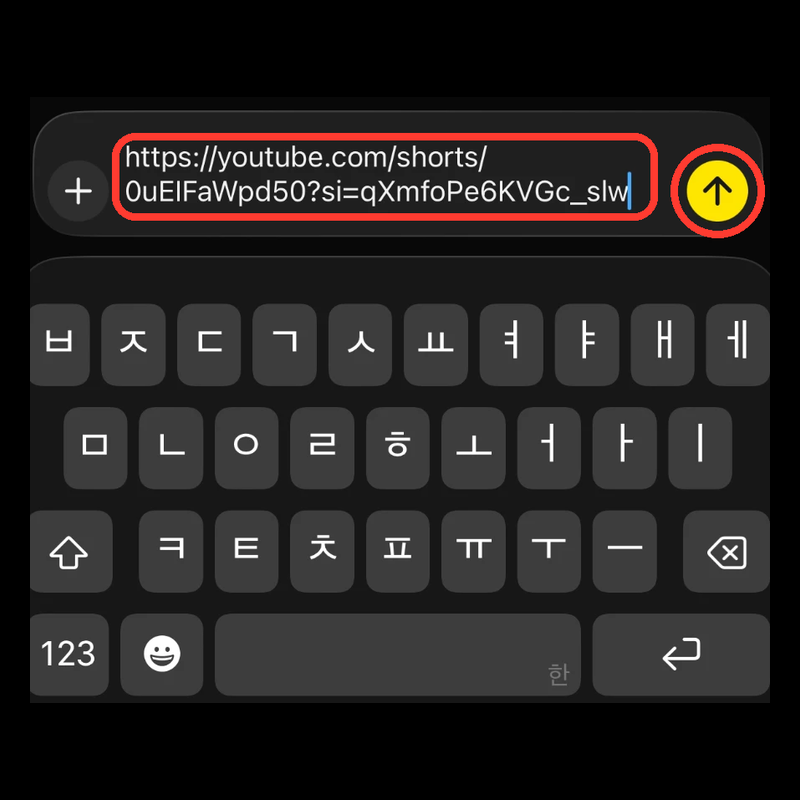
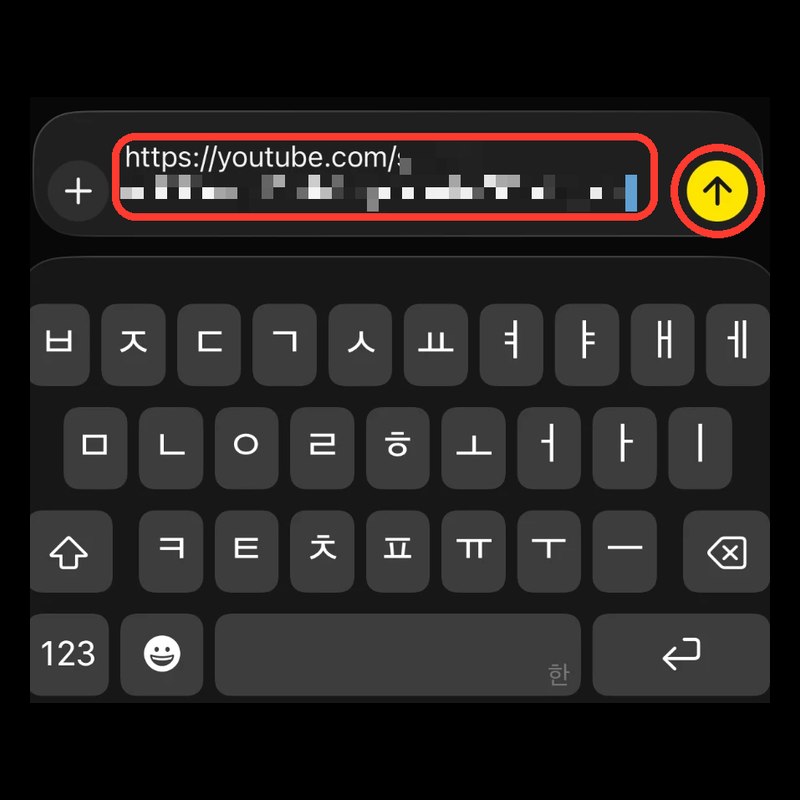
fix: 사용법 3번 사진의 주소에서 영상 번호 부분을 모자이크한다
youtube.com까지만 읽히게 두고 나머지는 가린다. 카카오가 이전 사진을 기억하지 않게 사진 버전을 v2로 올린다.

Changed region(s): [[0.1562, 0.1875, 0.8125, 0.2812]]

diff --git a/scripts/make_guide_images.py b/scripts/make_guide_images.py
@@ -36,6 +36,13 @@ def blur(img: Image.Image, box: tuple[int, int, int, int]) -> None:
     img.paste(region, box[:2])
 
 
+def mosaic(img: Image.Image, box: tuple[int, int, int, int], cell: int = 14) -> None:
+    """모자이크. 글자 모양은 남기되 읽을 수 없게 한다."""
+    region = img.crop(box)
+    small = region.resize((max(1, region.width // cell), max(1, region.height // cell)), Image.NEAREST)
+    img.paste(small.resize(region.size, Image.NEAREST), box[:2])
+
+
 def ring(draw: ImageDraw.ImageDraw, box, *, rounded: bool = False) -> None:
     if rounded:
         draw.rounded_rectangle(box, radius=28, outline=RED, width=9)
@@ -67,8 +74,10 @@ def make(src: Path) -> None:
     ring(draw, (34, 1750, 350, 1878), rounded=True)
     fit(img.crop((20, 1320, 900, 1925))).save(OUT / "2_copy.png", optimize=True)
 
-    # 3. 여기에 붙여 넣고 보내기
+    # 3. 여기에 붙여 넣고 보내기. 주소는 youtube.com만 읽히게 두고 영상 번호 부분은 모자이크한다
     img = chat.copy()
+    mosaic(img, (462, 1158, 760, 1198))
+    mosaic(img, (128, 1198, 760, 1242))
     draw = ImageDraw.Draw(img)
     ring(draw, (118, 1148, 770, 1252), rounded=True)
     ring(draw, (786, 1161, 898, 1273))

diff --git a/tests/unit/test_guide.py b/tests/unit/test_guide.py
@@ -205,7 +205,7 @@ def test_공개_주소가_있으면_사용법을_사진_카드로_보낸다():
     carousel = payload["template"]["outputs"][0]["carousel"]
     assert carousel["type"] == "basicCard"
     for item in carousel["items"]:
-        assert item["thumbnail"]["imageUrl"].startswith("https://example.org/static/guide/v1/")
+        assert item["thumbnail"]["imageUrl"].startswith("https://example.org/static/guide/v2/")
         assert len(item["description"]) <= 230
 
 
@@ -218,4 +218,4 @@ def test_사용법_사진은_정해진_파일만_내보낸다():
             response = client.get(f"/static/guide/{GUIDE_IMAGE_VERSION}/{name}.png")
             assert response.status_code == 200 and response.headers["content-type"] == "image/png"
         assert client.get(f"/static/guide/{GUIDE_IMAGE_VERSION}/..%2Fdebug.png").status_code == 404
-        assert client.get("/static/guide/v0/1_forward.png").status_code == 404
+        assert client.get("/static/guide/v1/1_forward.png").status_code == 404

diff --git a/src/healthcheck/pipeline/step6_response.py b/src/healthcheck/pipeline/step6_response.py
@@ -274,7 +274,7 @@ def load_guide(path: Path | str = GUIDE_PATH) -> dict:
 
 
 # 사용법 카드 사진. 사진을 바꾸면 버전을 올린다. 카카오가 같은 주소의 이미지를 오래 기억한다.
-GUIDE_IMAGE_VERSION = "v1"
+GUIDE_IMAGE_VERSION = "v2"
 
 
 def guide_image_names() -> tuple[str, ...]:
